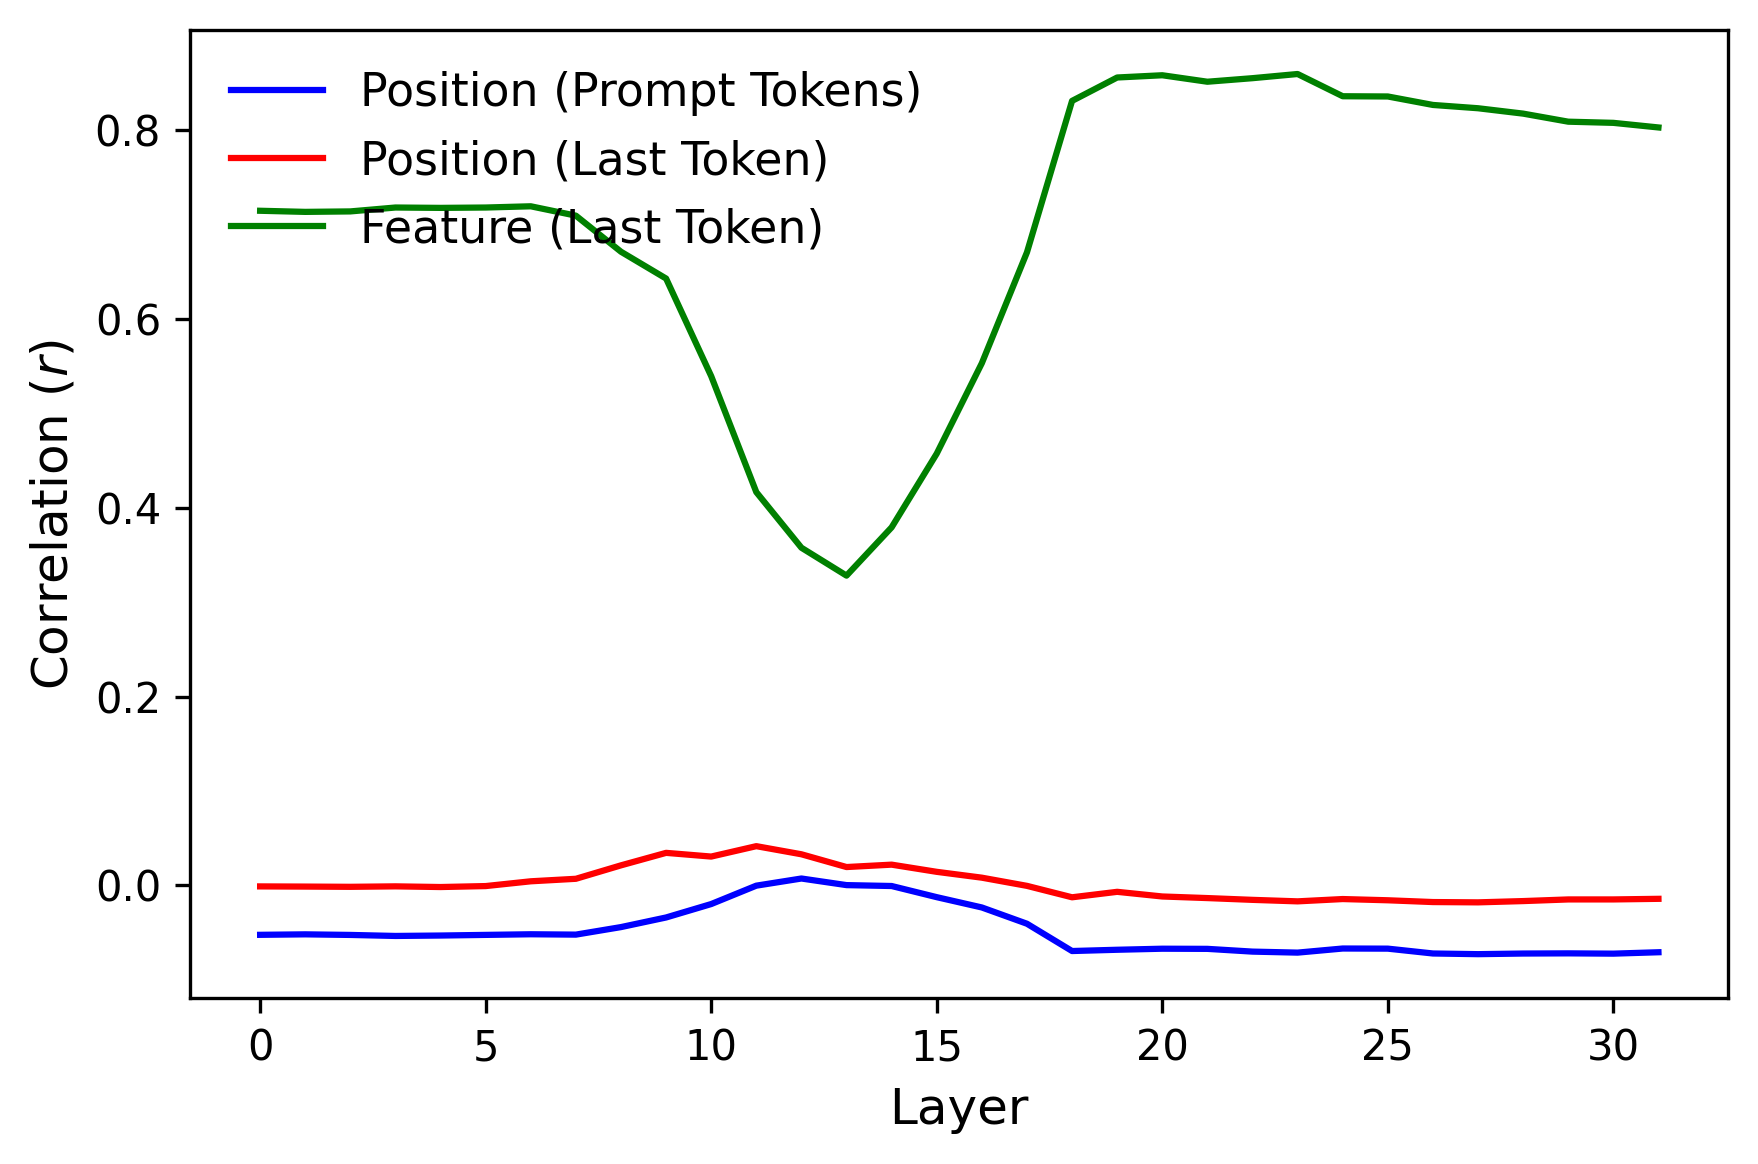
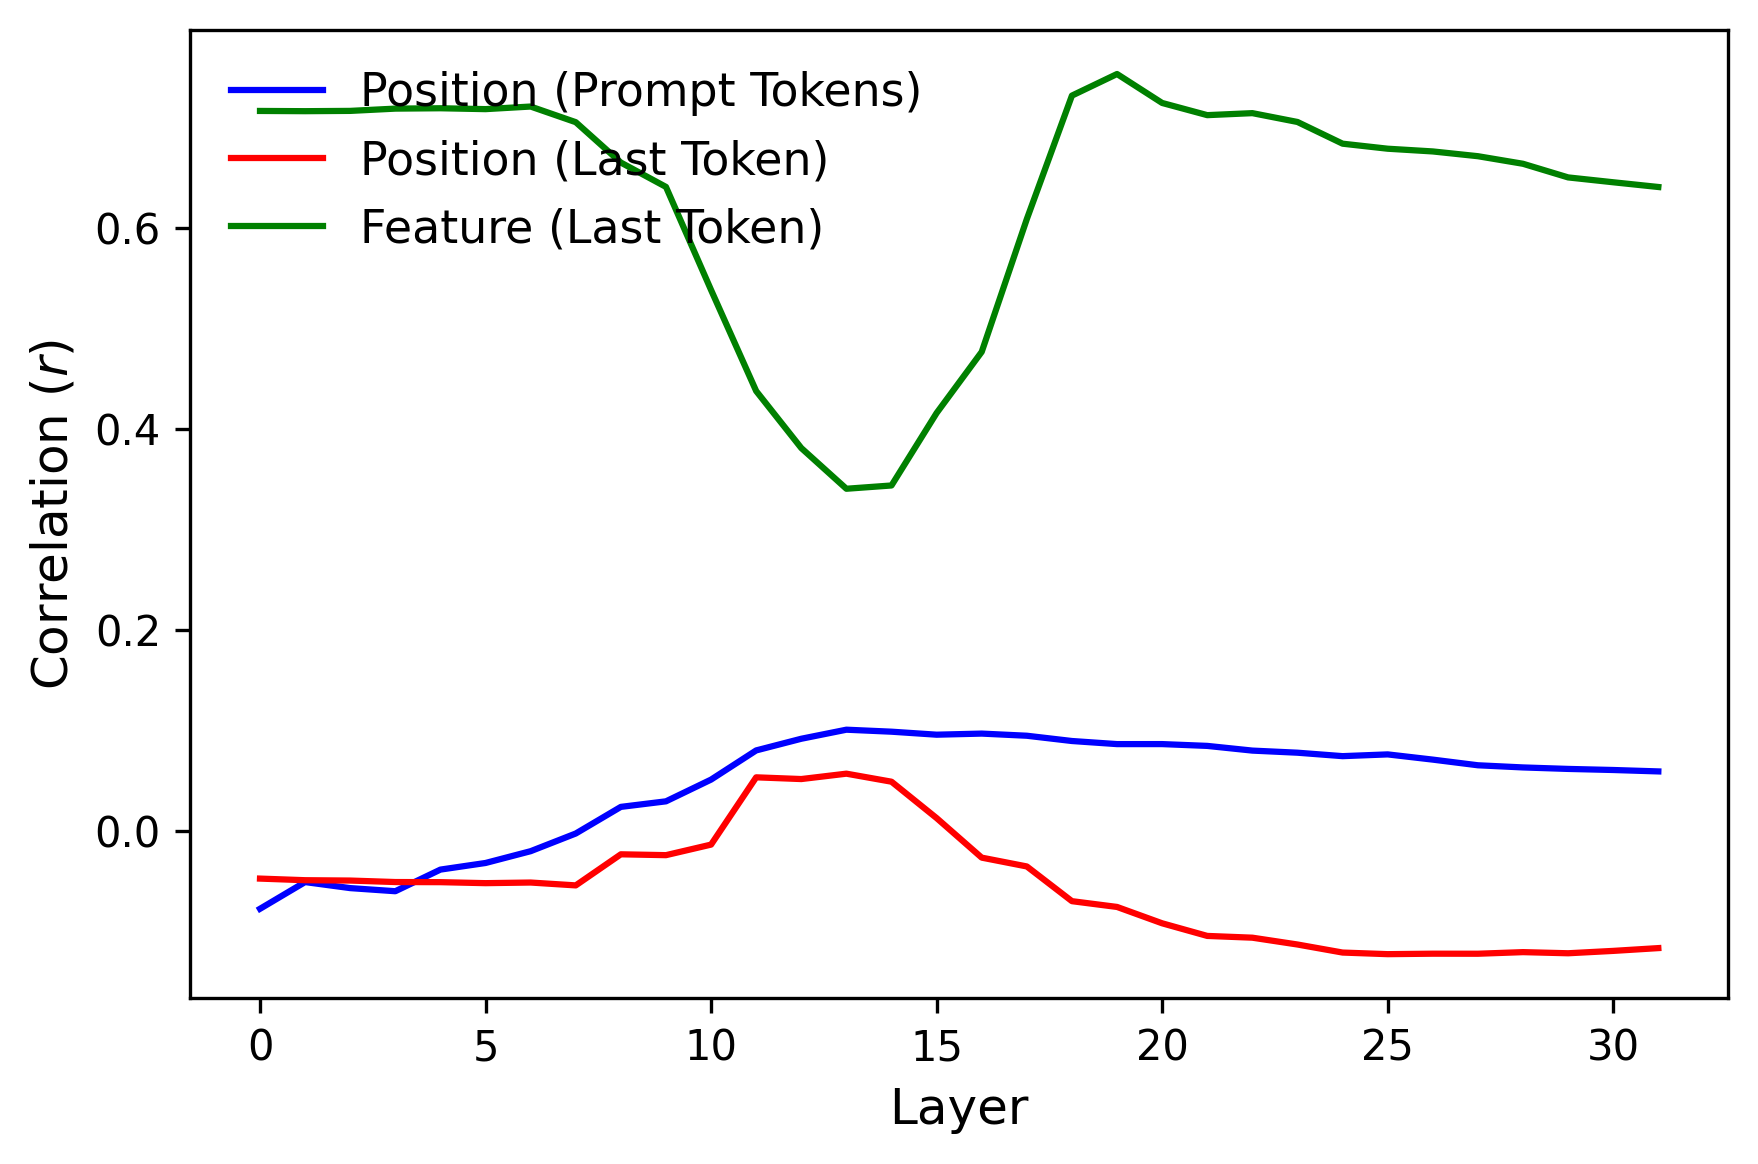
update

diff --git a/src/utils/tools.py b/src/utils/tools.py
@@ -190,6 +190,8 @@ def get_permutations(objects):
 def get_text_prompt(model_id, text, image, processor):   
     model_id_lower = model_id.lower()
     if "llava" in model_id_lower:
+        # [Note: use formatted prompts cannot improve the RSA figures for LLaVa models, 
+        # and sometimes the prediction just repeats the prompt from beginning instead of giving the expected features directly.]
         # system_prompt = "Complete the sentence describing the scene.\n"
         # user_prompt = "USER: <image>\n"
         # assistant_trigger = " ASSISTANT:"